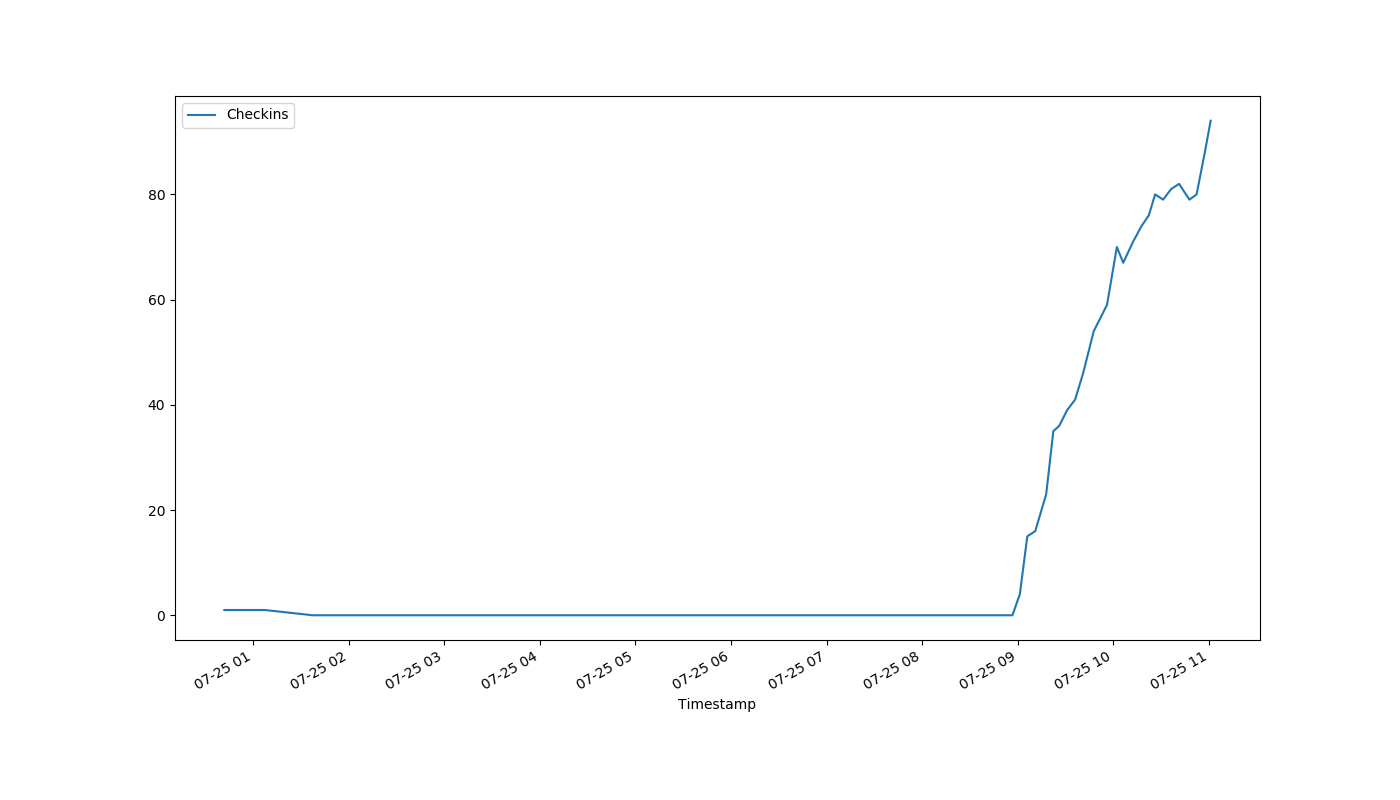
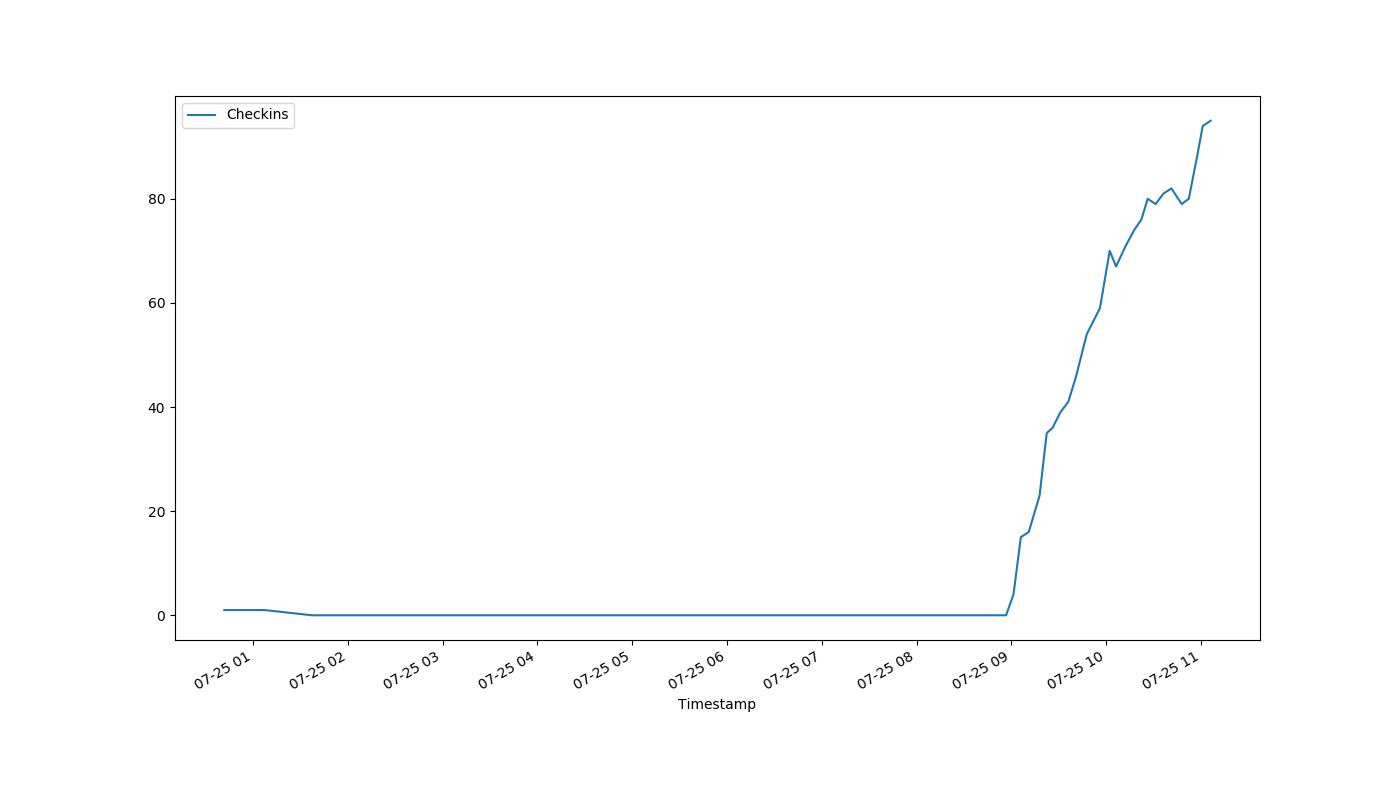
auto-Jul-25-11:07:53

diff --git a/index.html b/index.html
@@ -1,1 +1,1 @@
-<!DOCTYPE html><html><head><meta http-equiv="refresh" content="30"><link rel='stylesheet' href='holmcurrent.css'></head><body><p id='count'>94</p><div id='graph-wrap'><img id='graph' src='holmgraph-Jul-25.png'></div><p id='updated'>Last updated 11:01:17 / 11:01:08</p></body></html>
+<!DOCTYPE html><html><head><meta http-equiv="refresh" content="30"><link rel='stylesheet' href='holmcurrent.css'></head><body><p id='count'>95</p><div id='graph-wrap'><img id='graph' src='holmgraph-Jul-25.png'></div><p id='updated'>Last updated 11:06:17 / 11:06:08</p></body></html>
